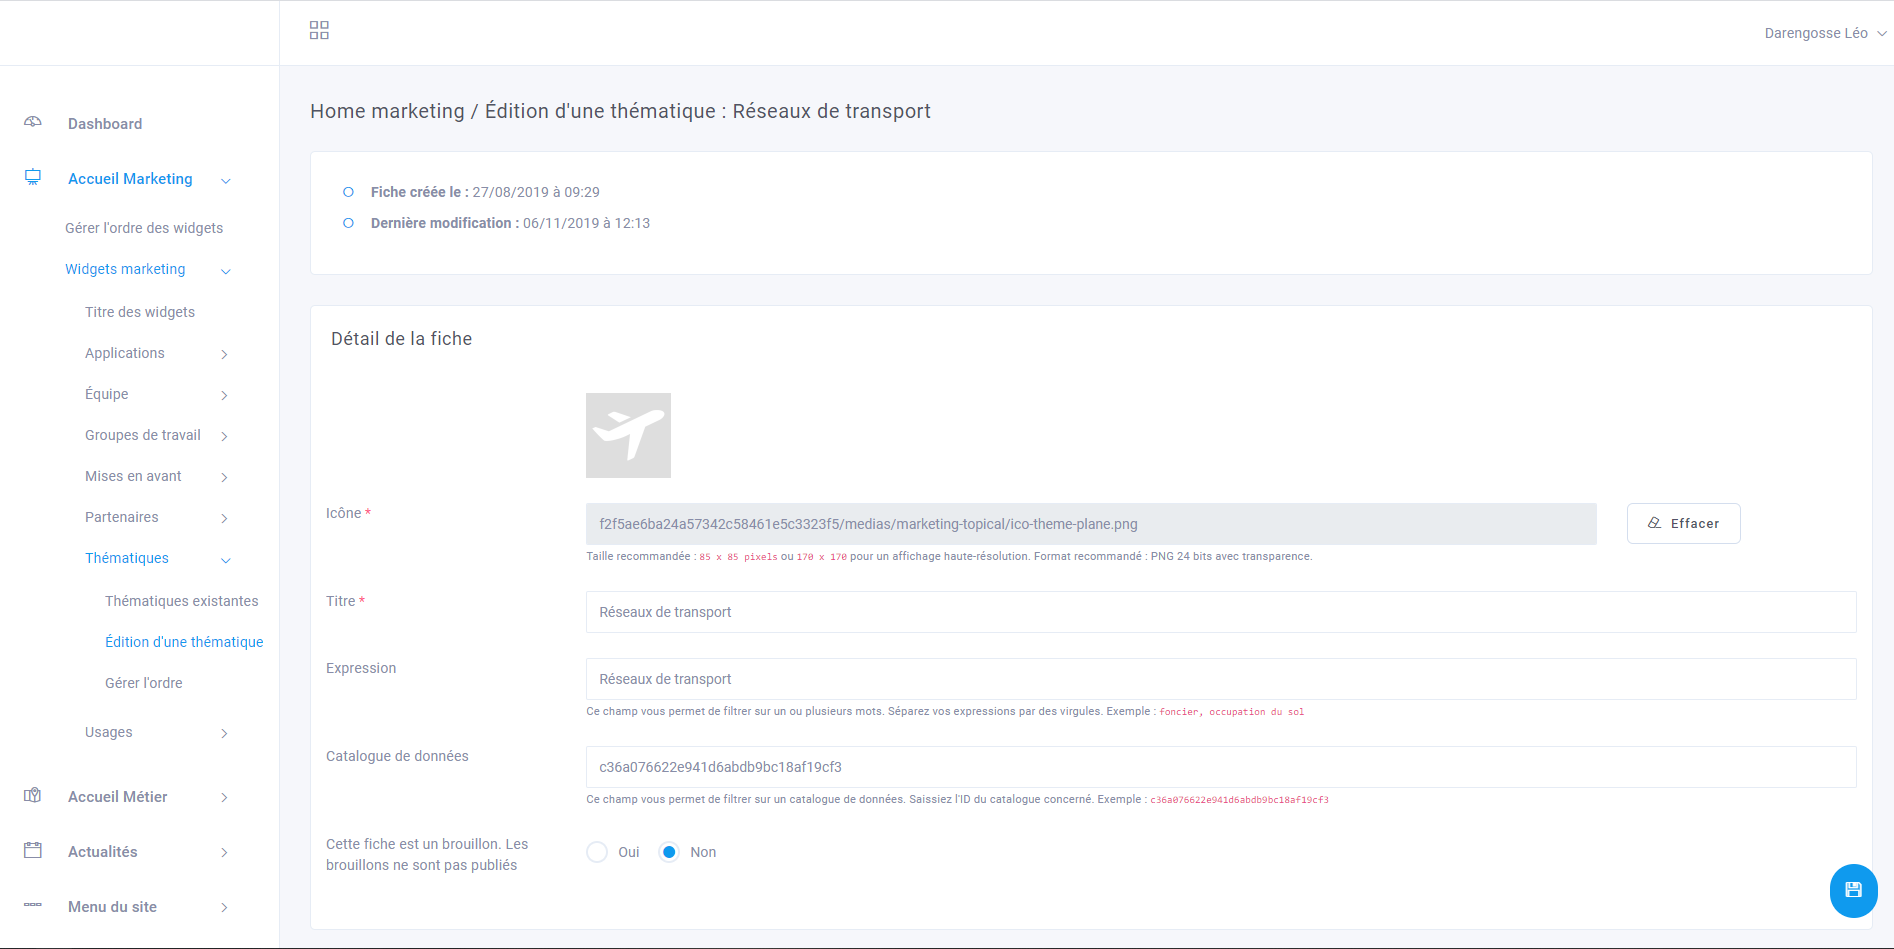
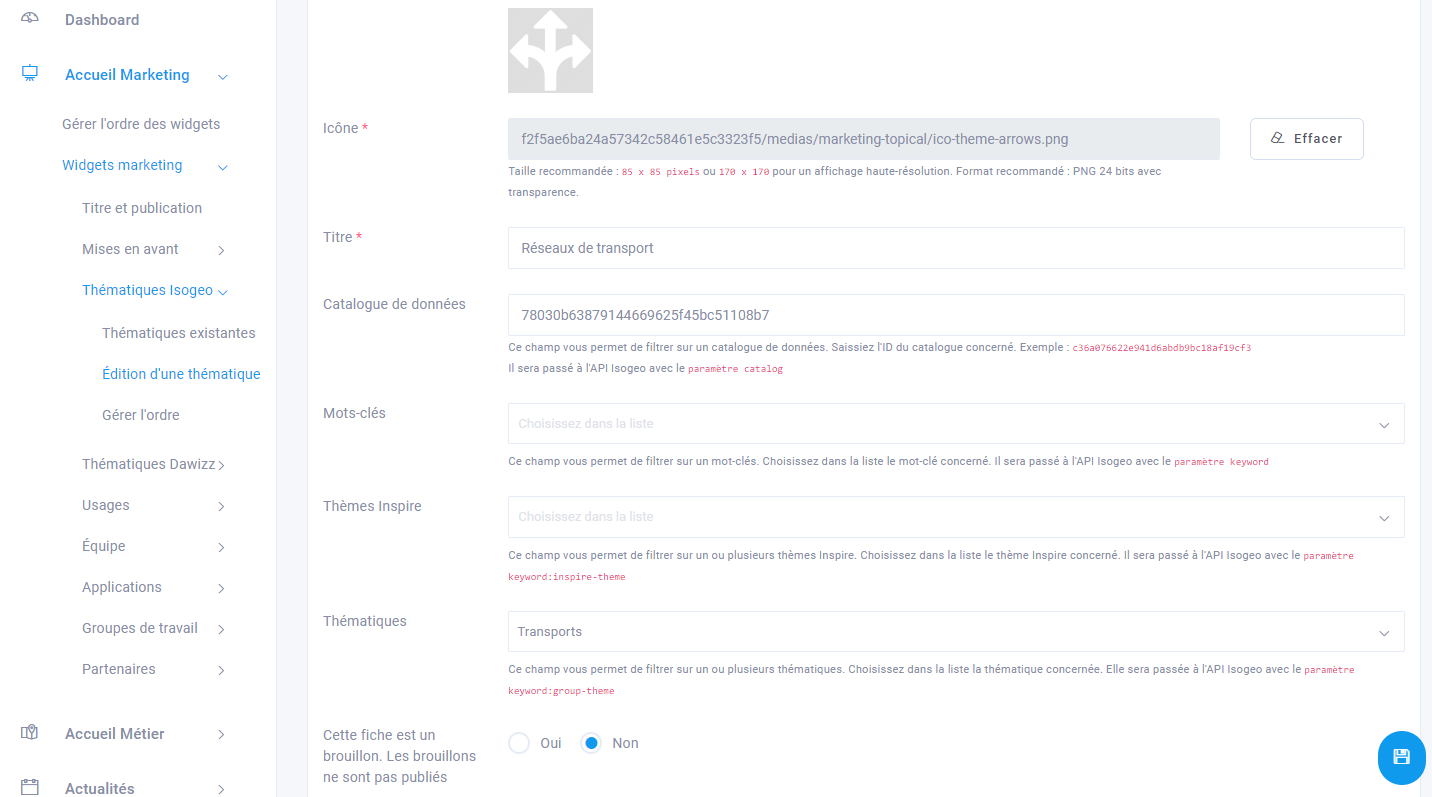
General refresh

diff --git a/fr/settings/display/user-display.md b/fr/settings/display/user-display.md
@@ -75,9 +75,10 @@ Cette fonctionnalité permet d'afficher uniquement les données ayant le statut 
 
 Cette section permet de gérer l'affichage de certains champs sur :
 
-* la page d'accueil
-* les résultats de la recherche (= vignette d'aperçu de la métadonnée)
-* le détail d'une fiche.
+* la page données soit la vignette d'aperçu de la métadonnée ;
+* le widget de sélection de données (cf. [Liste des données sélectionnées(/homepage-jobs/widgets-jobs/data-selection.md) ;
+* les résultats de la recherche générale sur tout le site ;
+* la page de la fiche de métadonnée détaillée.
 
 On peut donc choisir d'afficher ou non l'interprétation du markdown et les champs suivants :
 
@@ -85,6 +86,9 @@ On peut donc choisir d'afficher ou non l'interprétation du markdown et les cham
 * Propriétaire
 * Echelle
 * Type
+* Mots-clés
+* Thèmes Inspire
+* Thématiques
 
 !["Back office - Affichage des champs"](/assets/back_markdown.png)
 
@@ -92,23 +96,21 @@ On peut donc choisir d'afficher ou non l'interprétation du markdown et les cham
 
 Sont représentés ci-dessous les résultats sur le front office lorsque tout est activé ou désactivé.
 
-* Sur la page d'accueil
+* Sur la page données soit la vignette d'aperçu de la métadonnée
 
-!["Sur la page d'accueil lorsque tout est activé"](/assets/front_markdown_homepage_active.png)
+!["Sur la page données lorsque tout est activé"](/assets/front_markdown_research_active.png)
 
-!["Sur la page d'accueil lorsque tout est désactivé"](/assets/front_markdown_homepage_desactive.png)
+* le widget de sélection de données
 
-* Sur les résultats de recherche
+!["le widget de sélection de données lorsque tout est activé"](/assets/front_markdown_homepage_active.png)
 
-!["Sur les résultats de recherche lorsque tout est activé"](/assets/front_markdown_research_active.png)
+* les résultats de la recherche générale sur tout le site
 
-!["Sur les résultats de recherche lorsque tout est désactivé"](/assets/front_markdown_research_desactive.png)
+!["les résultats de la recherche générale sur tout le site lorsque tout est activé"](/assets/front_markdown_global_research_active.png)
 
-* Sur le détail d'une fiche
+* Sur la page de la fiche de métadonnée détaillée
 
-!["Sur le détail d'une fiche lorsque tout est désactivé"](/assets/front_markdown_metadata_active.png)
-
-!["Sur le détail d'une fiche lorsque tout est désactivé"](/assets/front_markdown_metadata_desactive.png)
+!["la page de la fiche de métadonnée détaillée lorsque tout est désactivé"](/assets/front_markdown_metadata_active.png)
 
 ### Onglets des fiches de métadonnées {#tabs}
 
@@ -191,8 +193,6 @@ On retrouve dans cet onglet les champs concernant l'historique de la donnée et 
 Cet onglet permet de visualiser les données lorsque qu'un ou plusieurs service(s) est(sont) associé(s) à la fiche de métadonnée dans Isogeo.
 
 !["Onglet Visualisation d'une fiche Isogeo"](/assets/front_metadata_visualisation.png)
-
-> NB : Le pré-chargement des couches est géré dans un cache ([voir ici comment gérer ce cache](/fr/services/import.md)).
 
 #### Téléchargement {#download}
 
@@ -319,4 +319,4 @@ Il est possible de modifier l'intitulé Propriétaire affiché dans la vignette 
 
 Par exemple, si je saisis "Proprétaire Test" et que j'enregistre, le résultat est le suivant : 
 
-!["Configurer l'intitulé du champ Propriétaire"](/assets/back_config_owner_name.png.png)
+!["Configurer l'intitulé du champ Propriétaire"](/assets/back_config_owner_name.png)

diff --git a/fr/introduction.md b/fr/introduction.md
@@ -34,7 +34,7 @@ Le portail intègre évidemment toute la puissance du [moteur de recherche Isoge
 
 #### ...ou moteur de recherche Dawizz {#search-dawizz}
 
-Depuis la version 3.0, le portail peut également intégrer le catalogue de l'application de cartographie globale des données [Dawizz](https://www.dawizz.fr/). Lorsque c'est le cas, ce n'est plus l'API Isogeo qui est utilisée mais l'API pour le moteur de recherche et la présentation des fiches de métadonnées.
+Depuis la version 3.0, le portail peut également intégrer le catalogue de l'application de catalogage globale des données [Dawizz](https://www.dawizz.fr/). Lorsque c'est le cas, c'est l'API Dawizz qui est utilisée pour le moteur de recherche et la présentation des fiches Dawizz mais l'API Isogeo est toujours utilisée pour la présentation des fiches de métadonnées de données géographiques.
 
 ![Interface de recherche Dawizz](/assets/front_search_filters_catalog_dawizz.png)
 
@@ -50,7 +50,7 @@ Le portail n'est pas uniquement focalisé sur les données. En effet, le portail
 
 * gestion des [menus](/menu/elements.md) ;
 * gestion de widgets pour les pages [marketing](/homepage-marketing/widgets-marketing/titles.md) et [métiers](/homepage-jobs/titles.md) ;
-* gestion des [actualités](/actualite/article.md) (création, édition, publication, mise en avant en page d’accueil métier) ;
+* gestion des [actualités](/actualites/article.md) (création, édition, publication, mise en avant en page d’accueil métier) ;
 * gestion des [Dataviz](/dataviz/dataviz.md) ;
 * gestion des [pages](/pages-iframes/pages.md) et [iframes](/pages-iframes/iframes.md) du site ;
 * ou encore un gestionnaire fichiers intégré etc...
@@ -111,9 +111,10 @@ Voir :
 
 ### Un portail personnalisable {#personnalisation}
 
-Le portail de données peut être personnalisé aux couleurs de votre organisme (charte graphique, logo, menu affichés, authentification, etc.). Ci-dessous quelques-unes de nos réalisations :
+Le portail de données peut être personnalisé aux couleurs de votre organisme (charte graphique, logo, menu affichés, authentification, etc.). Ci-dessous quelques-unes de nos réalisations publiques :
 
-* Syndicat Mixte d’Aménagement de la Vallée de la Durance [http://geocatalogue.smavd.org/](http://geocatalogue.smavd.org/)
+* Syndicat Mixte d’Aménagement de la Vallée de la Durance [https://geocatalogue.smavd.org/](https://geocatalogue.smavd.org/)
+* Lorient Agglomération [https://geocatalogue.lorient-agglo.bzh/](https://geocatalogue.lorient-agglo.bzh/)
 * Le portail de démonstration \(parfois en travaux\) : [https://demo.isogeo.net](https://demo.isogeo.net)
 
 #### Interface multi-supports {#multi-support}

diff --git a/fr/homepage-marketing/widgets-marketing/themes.md b/fr/homepage-marketing/widgets-marketing/themes.md
@@ -18,10 +18,14 @@ L'éditeur permet de modifier les champs suivants (ceux en **gras** étant oblig
 
 * **Icône** : Vous pouvez ajouter une icone personnalisée avec le [gestionnaire de fichiers](/medias/filesmanager.md) intégré au portail.
 * **Titre**
-* Expression : En renseignant une expression, vous pourrez orienter automatiquement l'utilisateur du portail vers une recherche filtrée sur cette expression (attention à bien séparer par une virgule les termes) 
-* Catalogue de données : En renseignant l'identifiant d'un catalogue thématique, vous pourrez orienter automatiquement l'utilisateur du portail vers les données du catalogue saisi.
-* Case à cocher pour activer le mode *brouillon* qui permet de ne pas publier le membre.
+* Catalogue de données : En renseignant l'identifiant d'un catalogue contenant des données partagées au portail, vous pourrez orienter automatiquement l'utilisateur du portail vers les données du catalogue saisi.
+* Mots-clés : En renseignant un mot-clé parmi la liste des mots-clés affectés aux fiches de métadonnées partagées au portail, vous pourrez orienter automatiquement l'utilisateur du portail vers les fiches de métadonnées contenant le mot-clé choisi.
+* Thèmes Inspire : En renseignant un thème Inspire parmi la liste des thèmes Inspire affectés aux fiches de métadonnées partagées au portail, vous pourrez orienter automatiquement l'utilisateur du portail vers les fiches de métadonnées contenant le thème Inspire choisi.
+* Thématiques : En renseignant une thématique parmi la liste des thématiques du groupe de travail affectés aux fiches de métadonnées partagées au portail, vous pourrez orienter automatiquement l'utilisateur du portail vers les fiches de métadonnées contenant la thématique choisie.
+* Case à cocher pour activer le mode *brouillon* qui permet de ne pas publier la thématique.
 
+> NB : Si vous renseignez plusieurs paramètres de filtre, la recherche sera la conjonction de ces différents paramètres.
+> 
 !["Editer une thématique"](/assets/back_edit_theme.png)
 
 ## Gérer l'ordre {#order}

diff --git a/fr/menu/elements.md b/fr/menu/elements.md
@@ -18,12 +18,12 @@ L'éditeur permet de modifier les champs suivants (ceux en **gras** étant oblig
 
 * **Titre**
 * **Type d'entrée**
-    * Lien vers accueil du site : soit la page choisie dans les [paramètres](/fr/settings/general.md) du portail
+    * Lien vers accueil du site : soit la page choisie dans les [paramètres](/settings/general.md) du portail
     * Lien vers la page géomatique : soit la [page d'accueil métiers](/homepage-jobs/titles.md)
-    * Lien vers la page marketing : soit la [page d'accueil marketing](/homepage-marketing/widget-marketing/titles.md)
+    * Lien vers la page marketing : soit la [page d'accueil marketing](/homepage-marketing/widgets-marketing/titles.md)
     * Lien vers la page "Actualités" : soit la [page de présentation des actualités](/actualites/articles.md)
     * Lien vers la page "Contact" : soit la [page de contact](/messages-recus/contacts.md)
-    * Lien vers la page "Catalogue" : soit la [page de recherche dans le catalogue de données](introduction.md)
+    * Lien vers la page "Catalogue" : soit la [page de recherche dans le catalogue de données](/introduction.md)
     * Lien vers la page "Dataviz" : soit la [page de consultation des Dataviz](/dataviz/dataviz.md)
     * Lien vers une page : soit les pages restantes du site parmi la [liste des pages existantes](/pages-iframes/pages.md)
     * Lien vers une actualités : soit une actualité parmi la liste des [actualités existantes](/actualites/articles.md)

diff --git a/fr/messages-recus/about-data.md b/fr/messages-recus/about-data.md
@@ -3,7 +3,7 @@ description: Gérer les messages reçus à partir d'une donnée du portail Isoge
 ---
 # A propos d'une donnée
 
-Ce menu concerne les messages envoyés par les utilisateurs qui ne peuvent pas participer aux fils de discussion, c'est-à-dire :
+Ce menu concerne les messages envoyés par les utilisateurs qui peuvent participer aux fils de discussion. Les utilisateurs suivants n'ont pas accès au chat :
 
 * les utilisateurs non authentifiés
 * les utilisateurs authentifiés dont le niveau de droit ne permet pas d'accéder au chat
@@ -32,3 +32,11 @@ Cliquer sur un message pour afficher les détails. Vous retrouverez les informat
 Une fois le message pris en compte, vous pouvez répondre par mail directement à l'expéditeur, puis modifier `l'état du message` en décrivant votre réponse dans les commentaires.
 
 ![Détail d'un message](/assets/back_detail_aboutdata.png)
+
+## Dépublication et suppression des messages
+
+Il est possible de dépublier un message ou de le supprimer. Dans les deux cas, un message d'alerte "Ce message a été supprimé" est indiqué dans le chat.
+
+Cependant, si le message est simplement dépublié, il est toujours accessible dans le back-office et peut être republié à tout moment.
+
+![Détail d'un message](/assets/back_delete_aboutdata.png)

diff --git a/fr/settings/general.md b/fr/settings/general.md
@@ -29,6 +29,10 @@ Il est donc possible de forcer les utilisateurs à s'authentifier au portail pou
 
 ![Authentification obligatoire](/assets/front_authentication.png)
 
+De plus, il est possible de déléguer la création et l'authentification des utilisateurs à un gestionnaire d'identité SaaS comme AzureAD (cf. [Paramétrage de l'application AzureAD](/appendices/azuread.md)) ou Okta en indiquant les paramères fournis par l'outil correspondant.
+
+![Paramétrage de l'authentification AzureAD](/assets/back_authentication.png)
+
 ### Nature du géoportail {#nature}
 
 Valeurs possibles :
@@ -117,6 +121,10 @@ Il faut donc renseigner les champs suivants :
 * Mot de passe : le mot de passe ne s'affichera plus une fois enregistré. Le laisser donc vide si inchangé.
 * SMTP Secure
 
-## Google Analytics {#ganalytics}
+> N'hésitez pas à contacter le support Isogeo (support@isogeo.fr) en cas de problème de configuration du serveur de mail.
+
+## Javascript et CSS {#ganalytics}
 
 Si votre portail est accessible sur une URL publique, il est possible d'insérer le code de suivi de fréquentation de l'outil de Google dans ce formulaire.
+
+Vous pouvez également insérer des balises CSS ou de code javascript (réservé aux utilisateurs avancés).

diff --git a/fr/prerequisites.md b/fr/prerequisites.md
@@ -24,6 +24,8 @@ Ce paramétrage est généralement réalisé par l'équipe Isogeo.
 
 ## Environnement technique {#environment}
 
+Généralement, le portail est hébergé par Isogeo en SaaS, mais celui-ci peut également être déployé en interne selon les prérequis ci-dessous. 
+
 ### Spécifications serveur
 
 * Serveur web compatible avec PHP (Windows/IIS, Linux/Apache) et MySQL ou PostgreSQL au besoin
